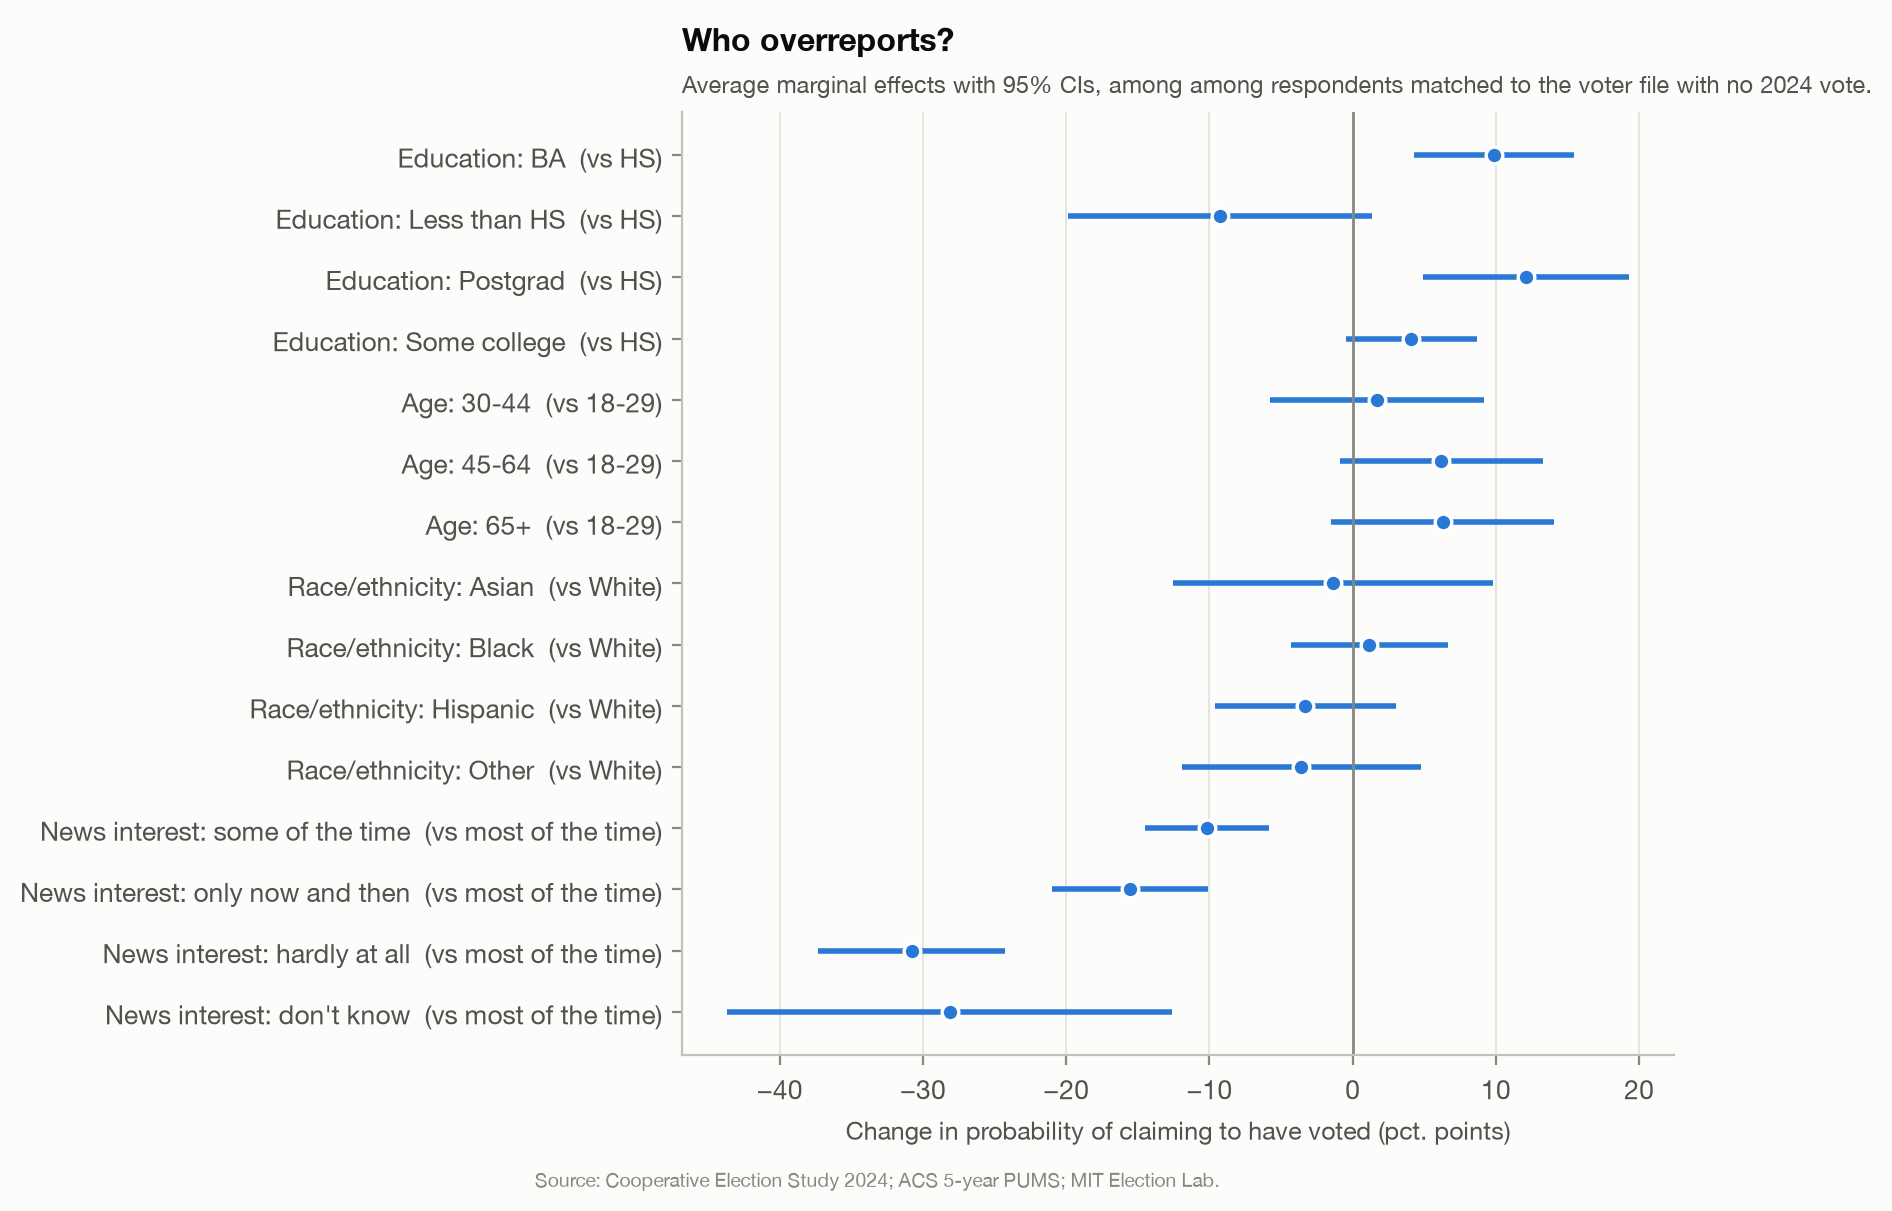
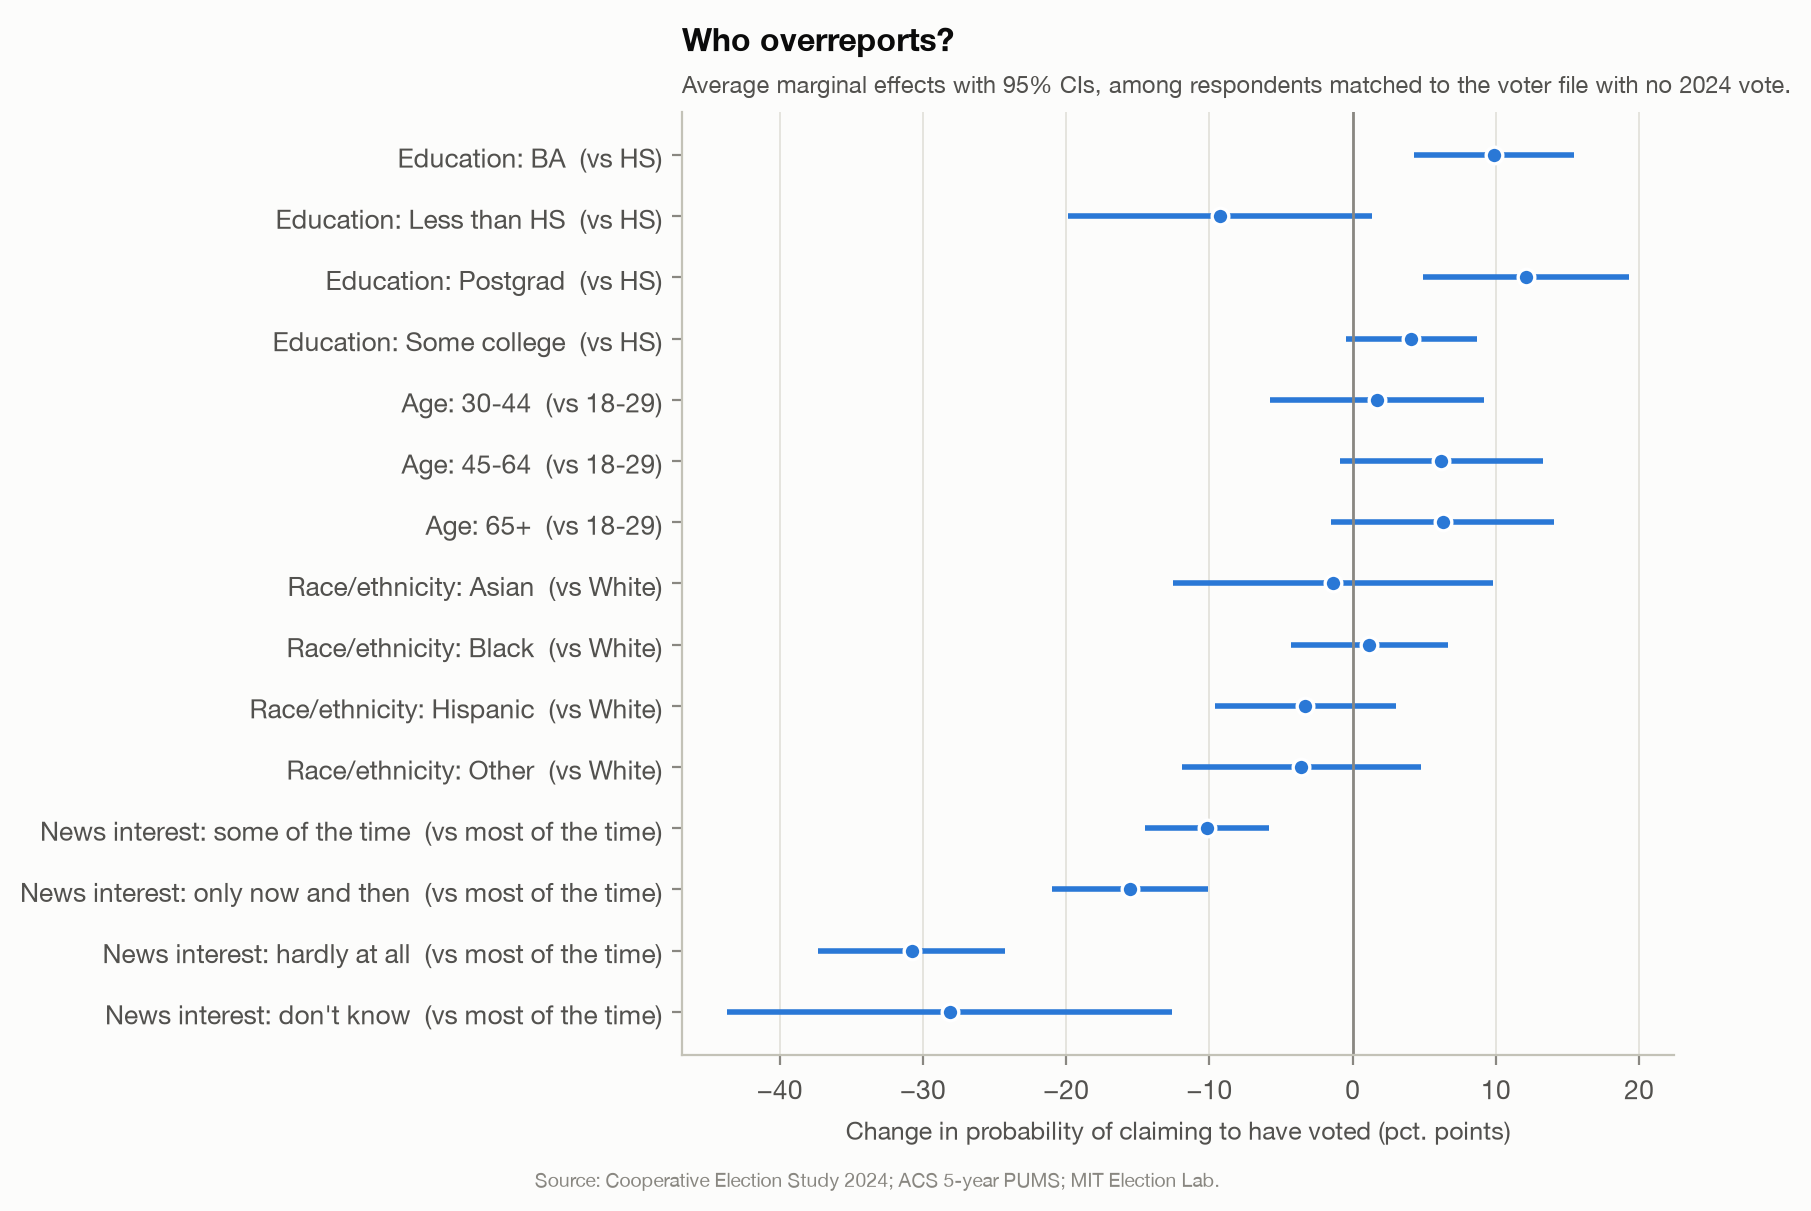
Fix lint: line lengths; fix Figure 2 subtitle typo

diff --git a/src/wawv/figures.py b/src/wawv/figures.py
@@ -101,8 +101,8 @@ def fig2_overreport_ame():
     ax.grid(axis="y", visible=False)
     ax.set_xlabel("Change in probability of claiming to have voted (pct. points)")
     ax.set_title("Who overreports?", pad=22)
-    subtitle(ax, "Average marginal effects with 95% CIs, among among respondents matched to the voter file with no " \
-    "2024 vote.")
+    subtitle(ax, "Average marginal effects with 95% CIs, among respondents matched "
+                 "to the voter file with no 2024 vote.")
     source_note(fig, SRC)
     fig.subplots_adjust(bottom=0.12)
     save(fig, F / "fig2_overreport_ame.png")

diff --git a/src/wawv/config.py b/src/wawv/config.py
@@ -33,7 +33,7 @@ CES_COLS = [
     "cc24_401",   # post-election self-reported turnout
     "cc24_410",   # post-election presidential vote choice
     "ts_g2024",   # TargetSmart validated 2024 general-election vote
-    "presvote20post",  # recalled 2020 presidential vote (1 Biden, 2 Trump, 3-5 other, 6 didn't vote)
+    "presvote20post",  # recalled 2020 presidential vote (codes: see PV_* below)
 ]
 SELF_VOTED_CODE = 5     # cc24_401: "I definitely voted"
 DEM_CODE = 1            # cc24_410 code for the Democratic candidate
